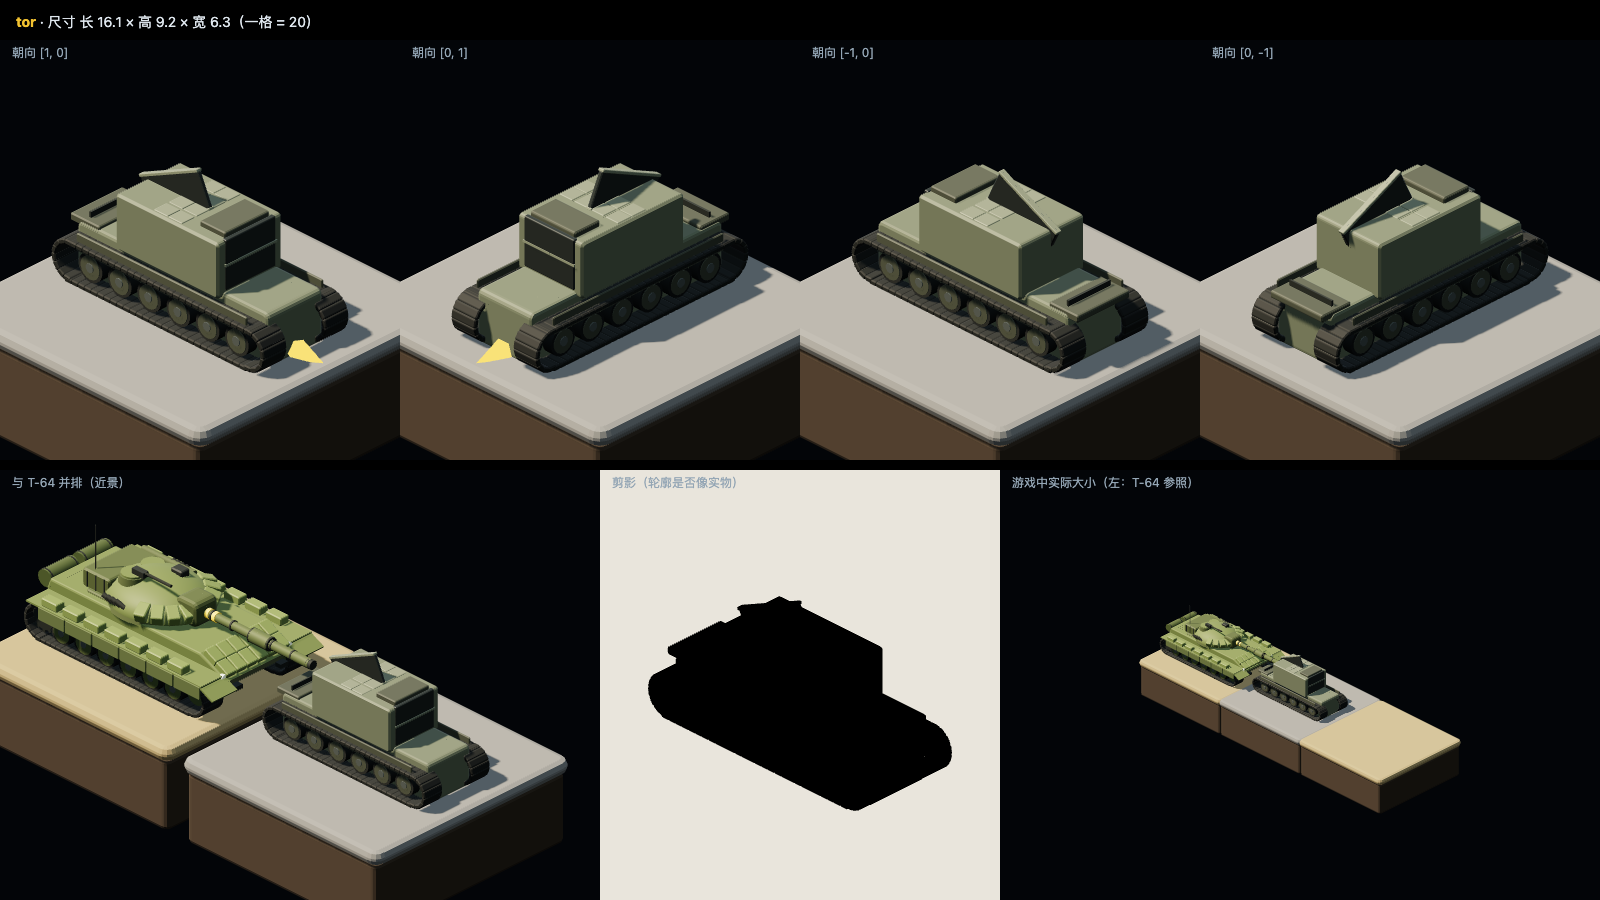
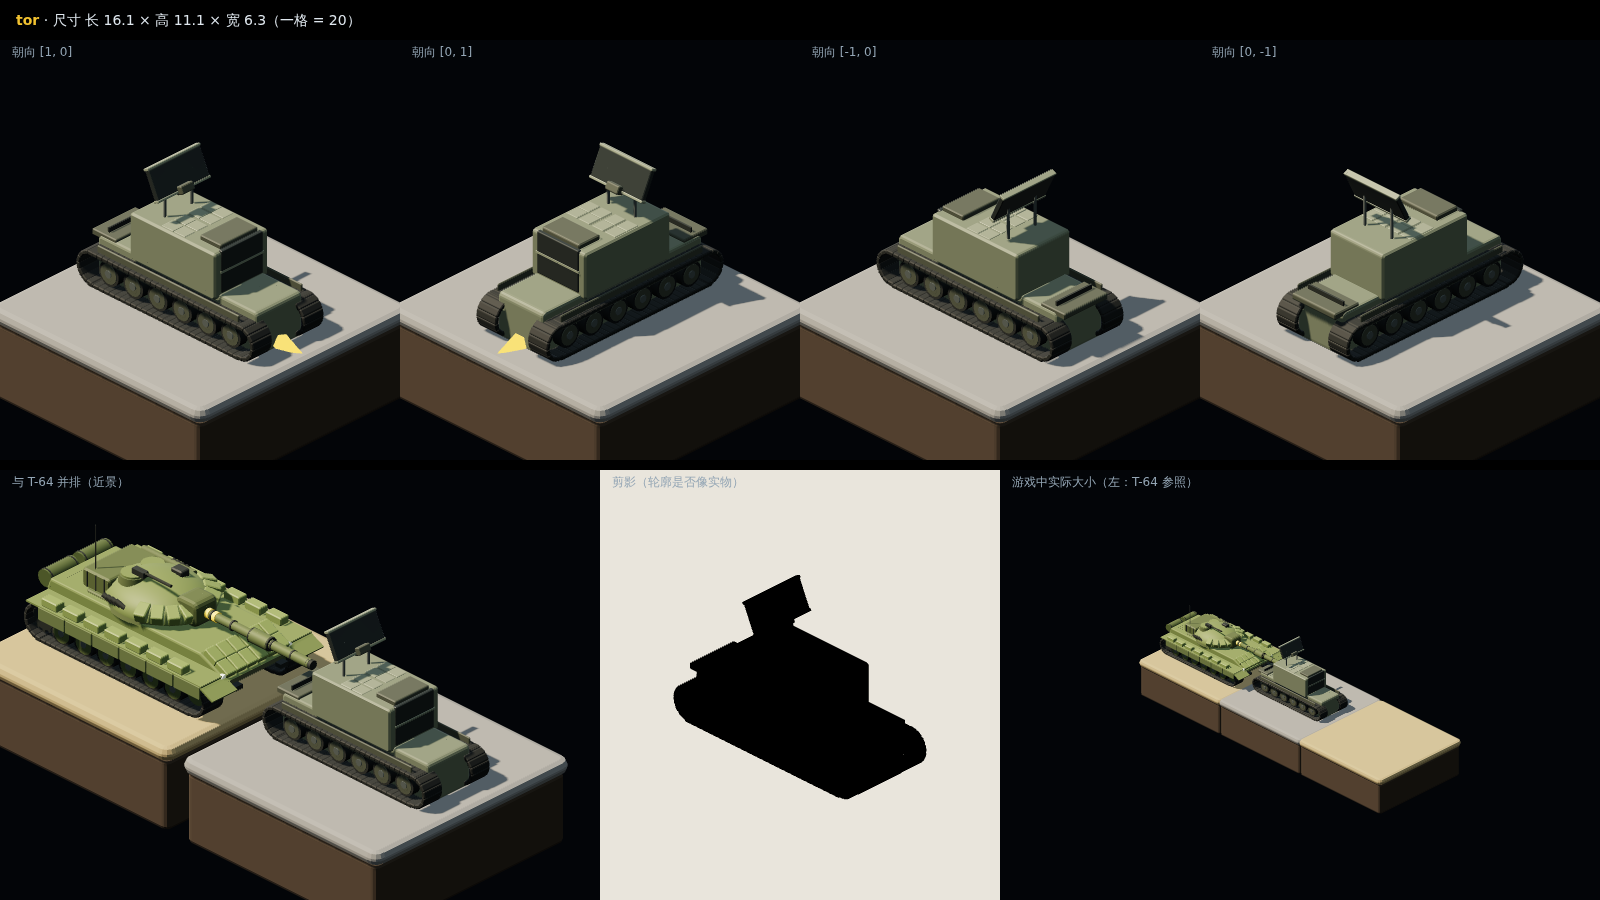
T-42: Tor search radar across the hull at full height; Serna windows, hull numbers and radar on their surfaces; viewer puts serna on water; board T-42 done
Claude-Session: https://claude.ai/code/session_01AwfH6u4m5DCVxaiMRmbgB9

diff --git a/game/js/models3d.js b/game/js/models3d.js
@@ -1382,12 +1382,14 @@ function m3Tor() {
   part(Tu, rbox(1.9, 0.55, 3.6, 0.08, 1), OD, 3.2, 3.55, 0);
   // rear exhaust grille
   for (let k = 0; k < 5; k++) part(T, new THREE.BoxGeometry(0.14, 0.75, 3.4), DKS, -7.15, 3.6, 0);
-  // search radar panel 5 x 2.2, tilted back 25°, on two struts from the turret top
-  const RS = new THREE.Group(); RS.position.set(-1.9, 6.75, 0); RS.rotation.z = 0.44; T.add(RS);
-  part(RS, rbox(5, 2.2, 0.3, 0.06, 1), RAD, 0, 0, 0);
-  part(RS, rbox(5.1, 0.14, 0.42, 0.03, 1), LT, 0, 1.18, 0);
-  part(RS, rbox(5.1, 0.14, 0.42, 0.03, 1), LT, 0, -1.18, 0);
-  for (const s of [-1, 1]) part(T, cyl(0.07, 0.09, 2.4, 8), STEEL, -1.6 + s * 0.5, 5.4, s * 0.85, 0, 0, s * 0.45);
+  // search radar: a 5-wide board across the vehicle (broad face toward +-x), lower edge about 8.5 high,
+  // leaning back 25 degrees, on two struts rising from the turret roof (roof at y 6.6)
+  const RS = new THREE.Group(); RS.position.set(-2.2, 9.6, 0); RS.rotation.z = 0.44; T.add(RS);
+  part(RS, rbox(0.3, 2.2, 5, 0.06, 1), RAD, 0, 0, 0);
+  part(RS, rbox(0.42, 0.14, 5.1, 0.03, 1), LT, 0, 1.18, 0);
+  part(RS, rbox(0.42, 0.14, 5.1, 0.03, 1), LT, 0, -1.18, 0);
+  part(RS, rbox(0.6, 0.5, 1.2, 0.06, 1), OD, 0.3, -1.1, 0);
+  for (const z of [-1.3, 1.3]) part(T, cyl(0.1, 0.12, 3.1, 8), STEEL, -2.1, 8.1, z);
   return T;
 }
 function m3Serna() {
@@ -1404,12 +1406,14 @@ function m3Serna() {
   part(T, rbox(1.75, 0.75, 1.9, 0.18, 1), mat3('#6a6e58', 0.8), 2.65, 2.85, 1.05);
   // two-story bridge at the stern quarter with mast and small radar
   part(T, rbox(3.5, 3.6, 4.5, 0.12, 1), HULL, -4.4, 4.05, 0);
-  for (const s of [-1, 1]) part(T, rbox(0.08, 0.6, 1.4, 0.03, 1), GLS, -4.4, 4.9, s * 1.1);
+  // bridge windows on the forward face and both sides
+  for (const z of [-1.5, 0, 1.5]) part(T, new THREE.BoxGeometry(0.08, 0.6, 1.1), GLS, -2.63, 4.9, z);
+  for (const s of [-1, 1]) for (const x of [-5.3, -3.6]) part(T, new THREE.BoxGeometry(1.1, 0.6, 0.08), GLS, x, 4.9, s * 2.27);
   part(T, rbox(3.7, 0.16, 4.7, 0.05, 1), DK, -4.4, 5.92, 0);
   part(T, cyl(0.07, 0.09, 1.6, 8), DKS, -4.9, 6.75, 0);
-  part(T, cyl(0.42, 0.42, 0.24, 14), mat3('#c9cfd3', 0.6), -4.35, 7.0, 0.75).scale.y = 0.55;
+  part(T, cyl(0.42, 0.42, 0.24, 14), mat3('#c9cfd3', 0.6), -4.9, 7.62, 0).scale.y = 0.55;
   // dark hull numbers on the bow sides
-  for (const s of [-1, 1]) part(T, rbox(0.7, 0.5, 0.08, 0.04, 1), DKS, 6.6, 1.3, s * 2.6);
+  for (const s of [-1, 1]) part(T, rbox(0.7, 0.5, 0.08, 0.04, 1), DKS, 6.6, 1.3, s * 3.28);
   return T;
 }
 function m3BldL(seed, dmg) {

diff --git a/tools/model3d.html b/tools/model3d.html
@@ -55,7 +55,7 @@ function stageScene(objs) {
   return scene;
 }
 // Boats and the bridge ruin sit on water (surface at y = -1.8, as in the game); everything else on a road tile.
-const WATERY = /magura|raptor|bridge/.test(new URLSearchParams(location.search).get('m') || '');
+const WATERY = /magura|raptor|serna|bridge/.test(new URLSearchParams(location.search).get('m') || '');
 function tile(x, z, c) {
   const g = new THREE.Group(); g.position.set(x, 0, z);
   if (WATERY && !c) {

diff --git a/docs/tasks/T-42-精修托尔登陆艇灯塔.md b/docs/tasks/T-42-精修托尔登陆艇灯塔.md
@@ -98,3 +98,23 @@
 ## 审查意见（审查方写）
 
 ## 审查意见（审查方写）
+
+### 第 1 轮
+审查提交：4039b2b
+结论：通过（审查方修了“托尔”和登陆艇）
+
+灯塔（完好和受损）、TB2 地图单位、礁岩地块都合格。灯塔的剪影很好认。
+
+**“托尔”没抓住它最认得出的特征。** 搜索雷达板写成了 `rbox(5, 2.2, 0.3)`：5 的宽度沿着车身长度方向，侧面对着镜头；中心高度 6.75，一半埋在炮塔里（炮塔顶在 6.6）。从正面看只剩一个小三角，整车像一辆方盒子自行火炮。审查方改成：
+- 雷达板横跨车身（`rbox(0.3, 2.2, 5)`），宽面朝前后；
+- 中心高度 9.6，下沿约 8.5，照卡片的尺寸；
+- 两根支架从炮塔顶伸进板里。
+现在最高点 11.1，剪影能认出是“托尔”。
+
+**登陆艇有三处零件放错位置：**
+- 驾驶台窗户放在了驾驶台正中 `x = -4.4`，被墙包住，看不见，还被标成悬空零件。已挪到前脸和两侧；
+- 舷号放在 `z = ±2.6`，在船壳里面，已挪到舷侧 `±3.28`；
+- 雷达圆盘离开桅杆 0.75，悬在半空，已放到桅杆顶上。
+
+执行方下次注意：零件要“贴在所属的大形体表面”（ART.md 第 1 节第 3 步）。坐标要用那个大形体的半宽或半长去算，不要用它的中心坐标。
+检视图 `tor.png`、`serna.png` 已用修改后的模型重拍；`tools/model3d.html` 现在给 `serna` 也放水面。

diff --git a/docs/tasks/BOARD.md b/docs/tasks/BOARD.md
@@ -48,6 +48,6 @@
 | T-39 | [战区一难度平衡](T-39-战区一平衡.md) | 已完成 | T-36 | 1 |
 | T-40 | [引擎：通用突破格、借调单位、按类型统计击杀](T-40-引擎-突破格与借调单位.md) | 已完成 | — | 1 |
 | T-41 | [引擎：防空锁定、舰艇登陆、TB2 地图单位、礁岩与灯塔](T-41-引擎-防空锁定与舰艇登陆.md) | 已完成 | T-40 | 1 |
-| T-42 | [精修 3D：托尔、谢尔纳登陆艇、蛇岛灯塔、礁岩、TB2 地图单位](T-42-精修托尔登陆艇灯塔.md) | 待开发 | T-41 | 0 |
+| T-42 | [精修 3D：托尔、谢尔纳登陆艇、蛇岛灯塔、礁岩、TB2 地图单位](T-42-精修托尔登陆艇灯塔.md) | 已完成 | T-41 | 1 |
 | T-43 | [新任务：2-1 沃兹涅先斯克](T-43-任务-沃兹涅先斯克.md) | 已完成 | T-40 | 1 |
 | T-44 | [新任务：2-3 蛇岛与战区二尾声](T-44-任务-蛇岛.md) | 待开发 | T-41, T-42, T-43 | 0 |
